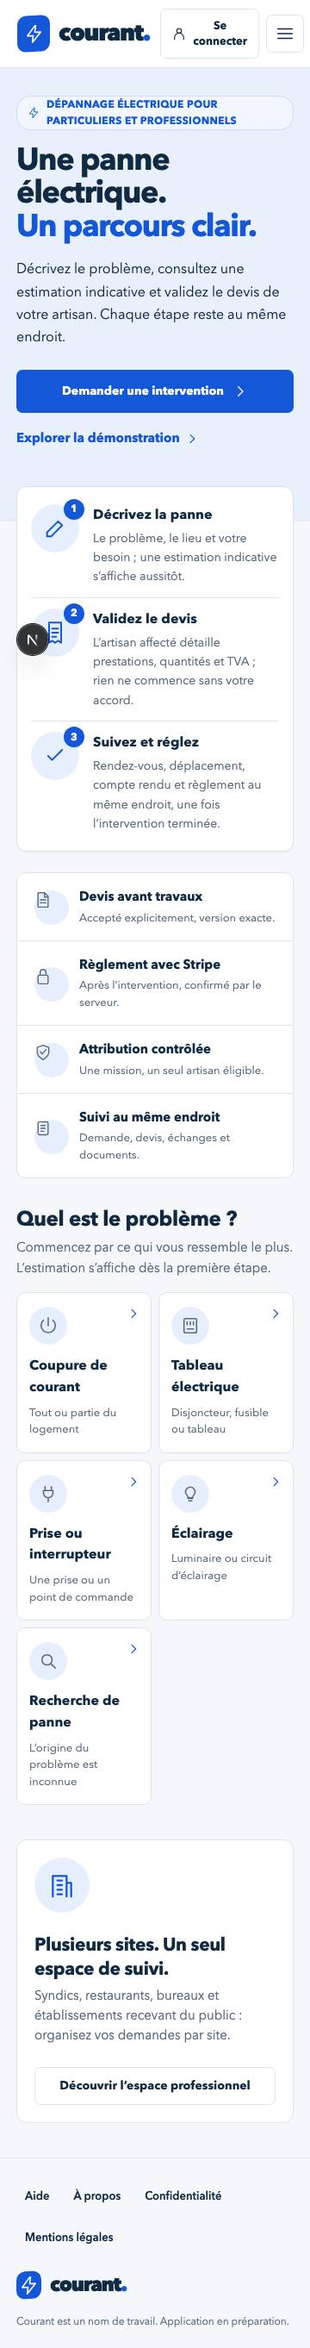
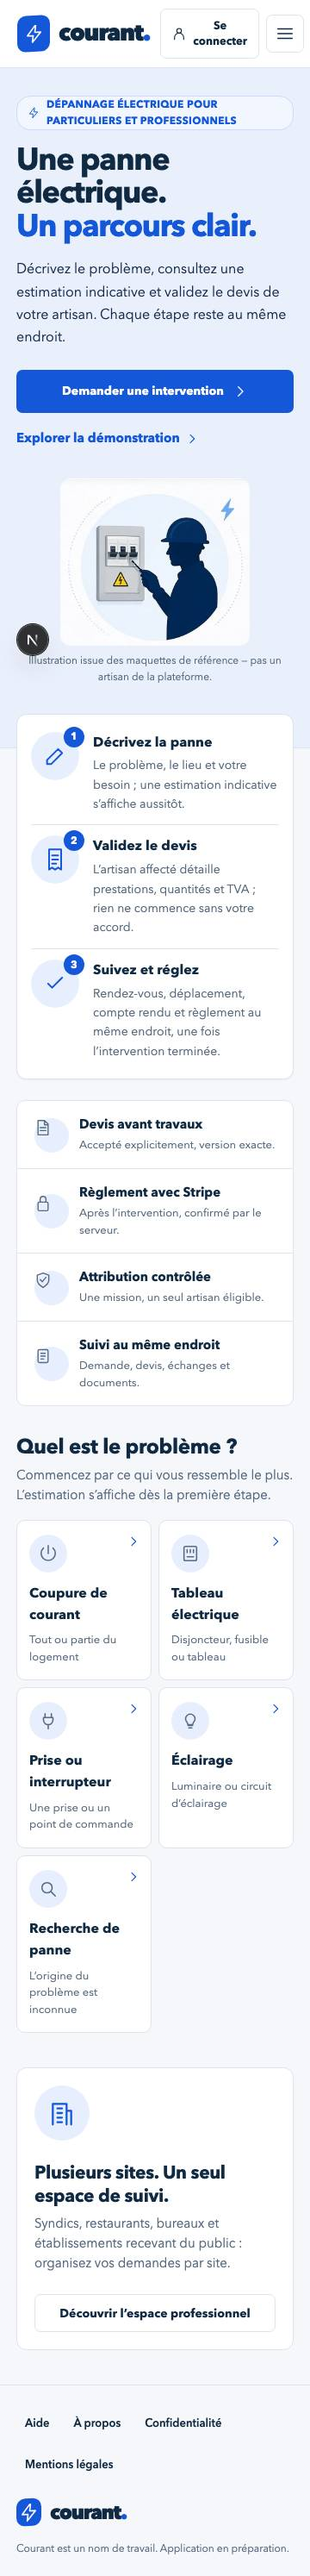
design(public): PUBLIC-HERO-001 — M41-derived hero illustration restores the M11 title/visual balance

diff --git a/components/role/public.module.css b/components/role/public.module.css
@@ -333,6 +333,26 @@
   gap: 6px;
   font-size: 15px;
 }
+/* PUBLIC-HERO-001: M11 balance — copy left, illustration right; stacked under the copy below 950 px. */
+.heroFigure {
+  margin: 0;
+  display: grid;
+  gap: 8px;
+  justify-items: center;
+  align-self: center;
+}
+.heroFigure img {
+  display: block;
+  width: min(100%, 400px);
+  max-height: 360px;
+  height: auto;
+  border-radius: 12px;
+}
+.heroFigure figcaption {
+  font-size: 12px;
+  color: var(--muted);
+  text-align: center;
+}
 .rule {
   display: block;
   width: 48px;
@@ -1149,6 +1169,10 @@
   }
   .heroInner {
     grid-template-columns: 1fr;
+    gap: 24px;
+  }
+  .heroFigure img {
+    width: min(100%, 280px);
   }
   .stepsRow,
   .stepsRow4 {
@@ -1270,6 +1294,9 @@
   .heroCta {
     width: 100%;
     justify-content: center;
+  }
+  .heroFigure img {
+    width: min(100%, 220px);
   }
   .stepsCard {
     margin-top: -40px;

diff --git a/components/role/public-site.tsx b/components/role/public-site.tsx
@@ -230,6 +230,12 @@ function HomeView({ gated, onLogin, onNew, onDemo, onProfessional }: { gated: bo
               </button>
             </div>
           </div>
+          {/* PUBLIC-HERO-001: illustration derived from reference mockup M41 (vol. 3 p10), no face,
+              no badge, no brand; not an artisan of the platform (traceability in the contract). */}
+          <figure className={styles.heroFigure}>
+            <img src="/images/public-hero-m41.jpg" width={346} height={306} alt="Illustration : un électricien devant un tableau électrique." loading="eager" decoding="async" />
+            <figcaption>Illustration issue des maquettes de référence — pas un artisan de la plateforme.</figcaption>
+          </figure>
         </div>
       </section>
       <section className={styles.stepsCard} aria-label="Les trois étapes">

diff --git a/docs/CLAUDE_VISUAL_FIDELITY_CONTRACT.md b/docs/CLAUDE_VISUAL_FIDELITY_CONTRACT.md
@@ -779,3 +779,20 @@ dimensions intrinsèques déclarées (pas de décalage de mise en page). Contras
 
 **Vérification.** Captures après hydratation complète (script corrigé) `public-home-{360,1280}-after.jpg` (remplacent celles de
 69556aa) comparées à M11 ; console propre ; `npx tsc --noEmit` ; `npx tsx --test tests/ui/*.test.ts` (test de garde public toujours vert).
+
+#### Résultat PUBLIC-HERO-001
+
[1 lines of base64/hex data omitted]
+  conforme à la traçabilité ci-dessus ; servi tel quel (`<img>` avec dimensions intrinsèques, `loading="eager"`, `decoding="async"`), aucun
+  composant global ni formulaire modifié.
+- 1280 : colonne gauche titre / sous-titre / CTA, colonne droite figure 400 × 354 centrée verticalement avec sa légende ; la zone vide a
+  disparu ; la carte des trois étapes chevauche toujours le bas de la bande (M11). 760 : figure 280 px sous le texte. 360 : figure 220 px sous
+  le CTA ; titre, sous-titre et CTA (52 px) restent au-dessus du pli.
+- Clavier (mesuré) : lien d’évitement → marque → Comment ça marche → Tarifs → Vous êtes artisan ? → Se connecter → Demander une
+  intervention → Explorer la démonstration → catégories (1280) ; marque → Se connecter → menu → CTA → démo → catégories (360). La figure
+  n’entre pas dans l’ordre de tabulation.
+- Mesures après hydratation complète (8 routes × 360/760/1280) : 0 élément interactif < 44 px, aucun débordement horizontal, console sans
+  erreur. `npx tsc --noEmit` au vert ; `npx tsx --test tests/ui/*.test.ts` 106/106 (test de garde public inclus). Captures remplacées :
+  `public-home-360-after.jpg`, `public-home-1280-after.jpg`.
+- Écart assumé : silhouette illustrative (M41) au lieu de la photographie de M11 (visage et badge « qualifiés et assurés » exclus par la
+  consigne) ; la légende dit explicitement qu’il ne s’agit pas d’un artisan de la plateforme.
